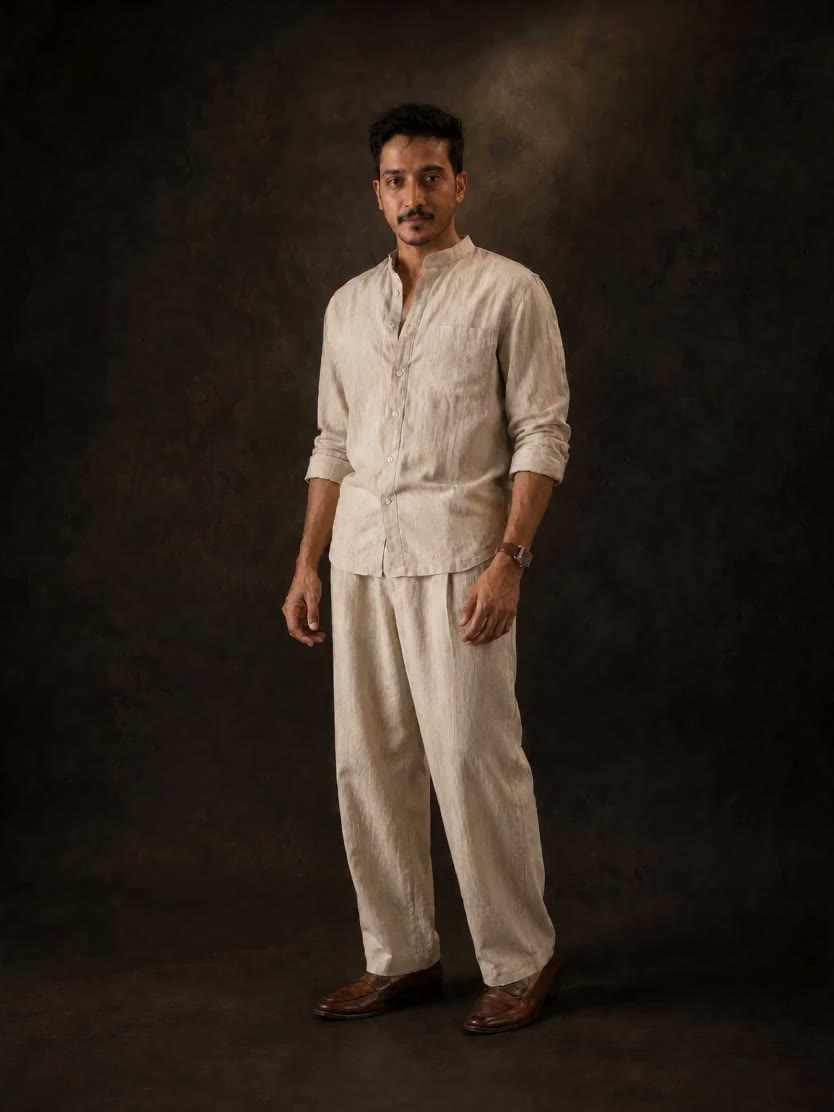
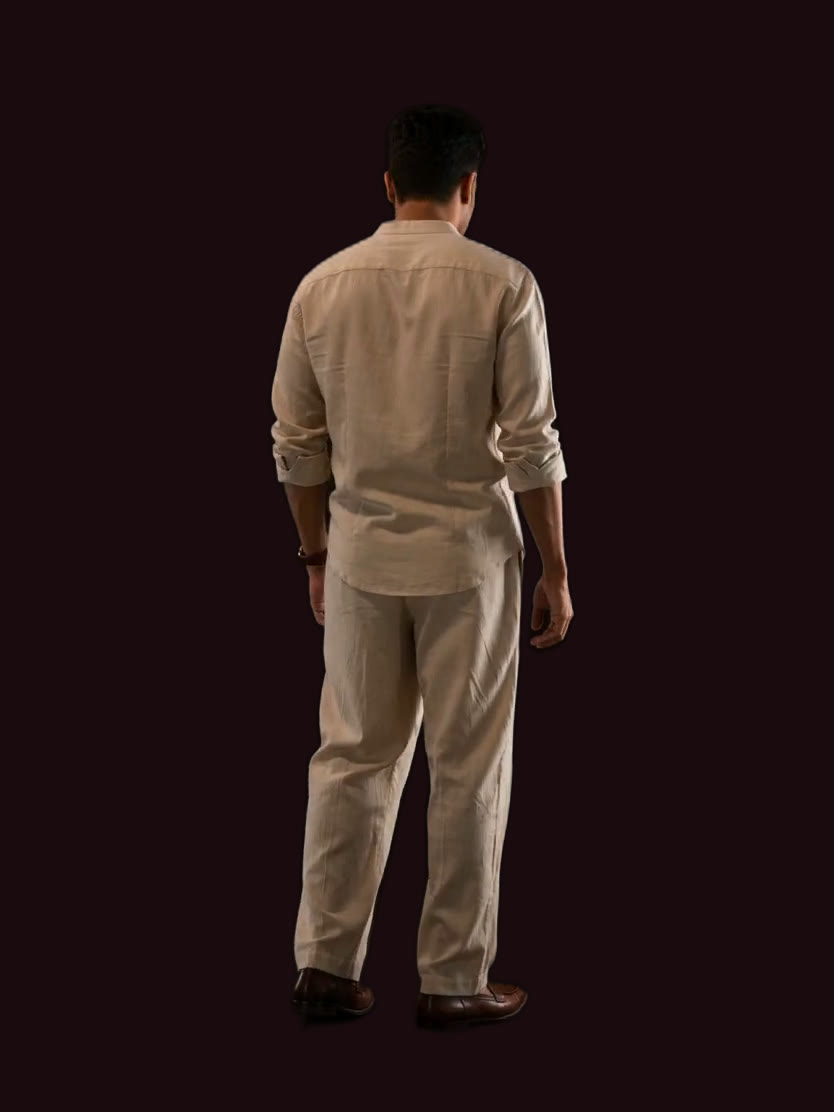
feat(jamal): matte hero 360 onto burgundy — cohesive identity
The hero clip had a dark olive studio backdrop that clashed with the new
oxblood identity. AI-matted all 241 frames (rembg u2net_human_seg) and
composited the model onto the exact site ink (#1A0B10), so the hero
background IS the site — seamless, no blend hacks, universal browser
support. Re-encoded with dense keyframes for the scrub (3.49MB -> 1.39MB).
Poster updated to match. Original clip preserved in _source/references.

Changed region(s): [[0.3118, 0.0, 0.7482, 1.0]]

diff --git a/landing-pages/jamal/_source/PROGRESS.md b/landing-pages/jamal/_source/PROGRESS.md
@@ -3,6 +3,22 @@
 Update after EVERY iteration. This file is the source of truth that survives
 `/compact`. Before compacting context, write your full current state here first.
 
+## Status: LIVE — desktop black-void bugs fixed + VERIFIED on the live site via Playwright
+
+User reported (with screenshots) two desktop scroll voids. Diagnosed by driving a REAL
+headless browser (Playwright + system Chrome) against the live URL and logging a per-scroll
+section map (see preview-raf-gotcha memory) — the only way to see pinned/scrubbed desktop
+scroll (Claude_Preview can't). Two root causes, both fixed and re-verified live:
+1. **Hero bleeding through Showcase / Showcase void** — Showcase was a transparent section
+   pinned with `pinSpacing:false`. Fix: `bg-ink` (opaque) + CSS `position:sticky` image
+   column (md:sticky top-0 h-screen self-start) + copy 160vh→130vh.
+2. **Huge empty void before the gallery** — the hero 360 pin was built late (on the video's
+   `loadedmetadata`), adding its 300vh spacer AFTER the gallery pin cached its start, so the
+   gallery engaged ~2600px early and left a ~1700px void then re-rendered in normal flow.
+   Fix: create the hero pin IMMEDIATELY (stable spacer; currentTime seek waits for duration)
+   + `ScrollTrigger.refresh()` on window `load`. Post-fix section map is clean & sequential:
+   hero → atelier → collection → details → gallery(pinned) → contact, zero `mid=root` frames.
+
 ## Status: LIVE on GitHub Pages — re-themed to the REAL oxblood/burgundy brand identity
 
 ### Brand re-theme (2026-06-22, from the official brand image the user supplied)